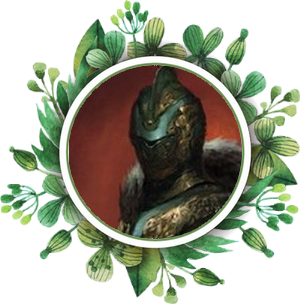
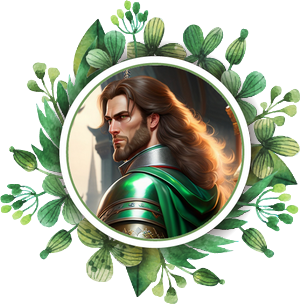
ajout de nouvelles images

diff --git a/public/assets/js/game.js b/public/assets/js/game.js
@@ -23,11 +23,11 @@ if (games.rounds.rounds > 0) {
 // -------------------------------------------------------------------------------------------------------------------------------------------------------
 
 // DONNE UN NOMBRE ALEATOIRE SELON LES BESOINS DU JEU
-let randomNumber = (randomType, value) => {
+let randomNumber = (value) => {
 
     let Number;
 
-    if (randomType == true) {
+    if (value) {
 
         Number = Math.floor(Math.random()*(value));
 
@@ -46,7 +46,7 @@ let randomNumber = (randomType, value) => {
 let eventGame = (type) => {
 
     // console.log(type);
-    let eventType = (type !== undefined) ? Number(type) : randomNumber();
+    let eventType = (type) ? Number(type) : randomNumber();
     // console.log(`Le chiffre random event est ${eventType}`);
 
     // Si le nombre aléatoire sorti est supérieur à 20, il n'y aura pas d'évènement ; on stoppe le script
@@ -55,7 +55,7 @@ let eventGame = (type) => {
     }
 
     // On relance la fonction du nombre aléatoire avec true en paramètre pour obtenir un chiffre entre 0 et 2
-    eventType = (type !== undefined) ? Number(type) : randomNumber(true, gameEvent.length);
+    eventType = (type) ? Number(type) : randomNumber(gameEvent.length);
     
     // Change la scène pour les évènements
     eventGameDisplay.classList.remove('hide');
@@ -112,7 +112,7 @@ let specialObtain = () => {
     // Si le nombre aléatoire sorti est supérieur à 20, il n'y aura pas d'obtention de personnage spéciaux ; on stoppe le script
     if (specialUserType <= 30) {
 
-        specialUserType = randomNumber(true, userCharacters.special.length);
+        specialUserType = randomNumber(userCharacters.special.length);
 
         if(games.userSpecialCharacters[specialUserType] == false) {
             resultUser = true;
@@ -127,7 +127,7 @@ let specialObtain = () => {
 
     if (specialIaType <= 30) {
         
-        specialIaType = randomNumber(true, iaCharacters.special.length);
+        specialIaType = randomNumber(iaCharacters.special.length);
 
         if(games.iaSpecialCharacters[specialIaType] == false) {
             resultIa = true;
@@ -173,7 +173,8 @@ let specialUse = (element) => {
             games.scores.ia -= 1;
             break;
         case 1:
-            
+            games.permission.ia.active = false;
+            games.permission.ia.round = games.rounds.rounds += 3;
             break;
         case 2:
             games.scores.user += 1;
@@ -189,11 +190,17 @@ let specialUse = (element) => {
             }
     }
 
-    
     games.userSpecialCharacters[special] = false;
     specialSelect[special].classList.replace('active', 'inactive');
     specialSelect[special].removeEventListener('click', specialUse);
 
+    // Termine la partie dès qu'un score atteint 10
+    if (games.scores.user == 10 || games.scores.ia == 10) {
+
+        let result = (games.scores.user == 10) ? 1 : 0;
+
+        endGame(result);
+    }
 
     saveToLocalStorage();
 }
@@ -202,8 +209,12 @@ let specialUse = (element) => {
 let iaSpecialUse = () => {
 
     console.log(games.iaSpecialCharacters);
+    console.log(games.permission.ia.active);
+    console.log(games.permission.ia.round);
     // Vérifie si l'ordinateur possède un personnage spécial ; si ce n'est pas le cas, fin du script
     if (!games.iaSpecialCharacters.includes(true)) {
+        return false;
+    } else if (games.permission.ia.active == false && games.permission.ia.round > games.rounds.rounds) {
         return false;
     }
 
@@ -216,7 +227,7 @@ let iaSpecialUse = () => {
         }
     });
 
-    let witchSpecial = randomNumber(true,special.length);
+    let witchSpecial = randomNumber(special.length);
     // console.log('Le spécial ia est ' + witchSpecial);
     let chanceNumber = randomNumber();
     console.log('Le nombre chance IA est de ' + chanceNumber);
@@ -246,14 +257,19 @@ let iaSpecialUse = () => {
                 games.scores.user -= 1;
                 break;
             case 1:
-                
+                games.permission.user.active = false;
+                games.permission.user.round = games.rounds.rounds += 3;
+                specialSelect.forEach(element => {
+                    element.removeEventListener('click', specialUse);
+                    element.classList.replace('active', 'inactive');
+                });
                 break;
             case 2:
                 games.scores.ia += 1;
                 break;
         
             default:
-                let hontoscopeDecision = Math.floor(Math.random() * 2);
+                let hontoscopeDecision = randomNumber(2);
                 // console.log('le random hontoscope est ' + hontoscopeDecision);
                 if (hontoscopeDecision == false) {
                     games.scores.ia -= 2;
@@ -277,6 +293,8 @@ let endGame = (result) => {
     // Changement de scène avec affichage du résultat de la partie
     resultGame.classList.remove('hide');
     resultSentence.classList.remove('hide');
+    eventGameDisplay.classList.add('hide');
+    following.classList.add('hide');
     fightZone.classList.add('hide');
 
     // Affiche la bannière et le résultat final avec l'accompagnement audio
@@ -360,7 +378,7 @@ let score = (result) => {
 let battle = (element) => {
 
     // Si aucun évènement n'a encore eu lieu, on lance le script pour en faire apparaitre un potentiellement
-    if (games.event === false) {
+    if (games.event === false && (games.scores.ia > 2 || games.scores.user > 2)) {
         let resultEvent = eventGame();
         if (resultEvent === true) {
             return false;
@@ -374,7 +392,7 @@ let battle = (element) => {
     // }
 
     games.lastCharacters.user = Number(element.target.value);
-    games.lastCharacters.ia = randomNumber(true, iaCharacters.normal.length);
+    games.lastCharacters.ia = randomNumber(iaCharacters.normal.length);
     let result;
     
     switch (games.lastCharacters.user) {
@@ -440,6 +458,10 @@ let battle = (element) => {
             break;
     }
 
+    // specialSelect.forEach(element => {
+    //     element.addEventListener('click', specialUse);
+    //     element.classList.replace('inactive', 'active');
+    // });
 
     // Lancement du script pour obtenir ou non un personnage spécial
     specialObtain();

diff --git a/index.html b/index.html
@@ -236,7 +236,7 @@
                             <!-- PERSONNAGES NORMAUX -->
                             <div class="normalCharacters">
                                 <div class="character" title="Yvette la crevette">
-                                    <input type="image" src="./public/assets/img/userCharacters/Yvette.jpg" value="0"
+                                    <input type="image" src="./public/assets/img/userCharacters/yvette.jpg" value="0"
                                         id="yvette" alt="">
                                 </div>
                                 <div class="character" title="Jean-Hardi l'emphatique">
@@ -248,15 +248,15 @@
                                         alt="">
                                 </div>
                                 <div class="character" title="Alavare l'opportuniste">
-                                    <input type="image" src="./public/assets/img/Alavare2.jpg" value="3" id="alavare"
+                                    <input type="image" src="./public/assets/img/userCharacters/alavare.jpg" value="3" id="alavare"
                                         alt="">
                                 </div>
                                 <div class="character" title="Yvres le soit-disant Druide">
-                                    <input type="image" src="./public/assets/img/Yvres2.jpg" value="4" id="yvres"
+                                    <input type="image" src="./public/assets/img/userCharacters/yvres.jpg" value="4" id="yvres"
                                         alt="">
                                 </div>
                                 <div class="character" title="Géhonte le magicien de la honte">
-                                    <input type="image" src="./public/assets/img/Géhonte2.jpg" value="5" id="gehonte"
+                                    <input type="image" src="./public/assets/img/userCharacters/gehonte.jpg" value="5" id="gehonte"
                                         alt="">
                                 </div>
                             </div>
@@ -264,17 +264,17 @@
                             <!-- PERSONNAGES SPECIAUX -->
                             <div class="specialCharacters">
                                 <div class="character" title="Austère le drastique">
-                                    <input type="image" class="inactive" src="./public/assets/img/Austere.jpg" value="0" id="austere"
+                                    <input type="image" class="inactive" src="./public/assets/img/userCharacters/austere.jpg" value="0" id="austere"
                                         alt="">
                                 </div>
                                 <div class="character" title="Charmignon l'illusionniste">
-                                    <input type="image" class="inactive" src="./public/assets/img/charmignon.jpg" value="1" id="charmignon" alt="">
+                                    <input type="image" class="inactive" src="./public/assets/img/userCharacters/charmignon.jpg" value="1" id="charmignon" alt="">
                                 </div>
                                 <div class="character" title="Devine la voyante">
-                                    <input type="image" class="inactive" src="./public/assets/img/devine.jpg" value="2" id="devine" alt="">
+                                    <input type="image" class="inactive" src="./public/assets/img/userCharacters/devine.jpg" value="2" id="devine" alt="">
                                 </div>
                                 <div class="character" title="Hontoscope">
-                                    <input type="image" class="inactive" src="./public/assets/img/userCharacters/Hontoscope.jpg"
+                                    <input type="image" class="inactive" src="./public/assets/img/userCharacters/hontoscope.jpg"
                                         value="3" id="hontoscope" alt="">
                                 </div>
                             </div>

diff --git a/public/assets/js/localStorage.js b/public/assets/js/localStorage.js
@@ -3,12 +3,13 @@ import { userCharacters, iaCharacters, gameEvent, roundResults, gameOver } from 
 
 // CRÉATION DE L'OBJET DE SAUVEGARDE
 let saves = {
-    games: { matches: 0, victories: 0, defeats: 0, equalities: 0},
-    rounds: { rounds: 0, success: 0, fail: 0, equal: 0},
-    scores: { user: 0, ia: 0},
-    lastCharacters: { user: null, ia: null},
+    games: { matches: 0, victories: 0, defeats: 0, equalities: 0 },
+    rounds: { rounds: 0, success: 0, fail: 0, equal: 0 },
+    scores: { user: 0, ia: 0 },
+    lastCharacters: { user: null, ia: null },
     userSpecialCharacters: [false, false, false, false],
     iaSpecialCharacters: [false, false, false, false],
+    permission: { user: { active: true, round: 0 }, ia: { active: true, round: 0 }},
     event: false
 };
 
